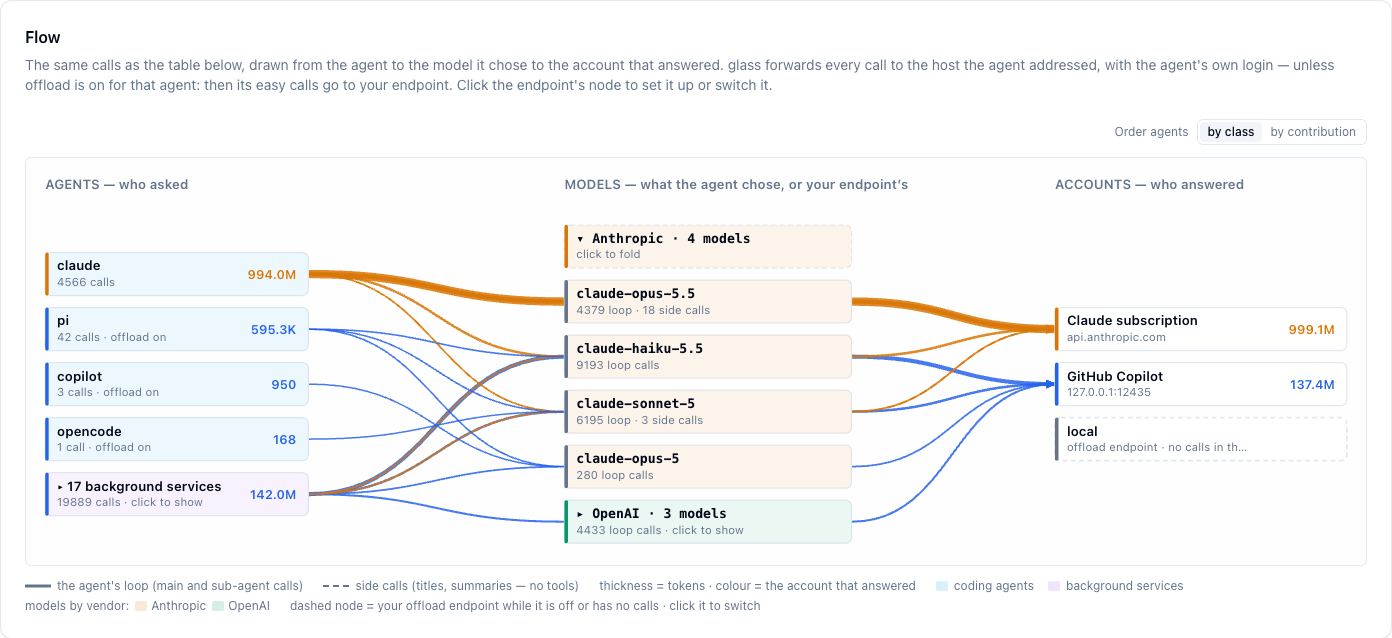
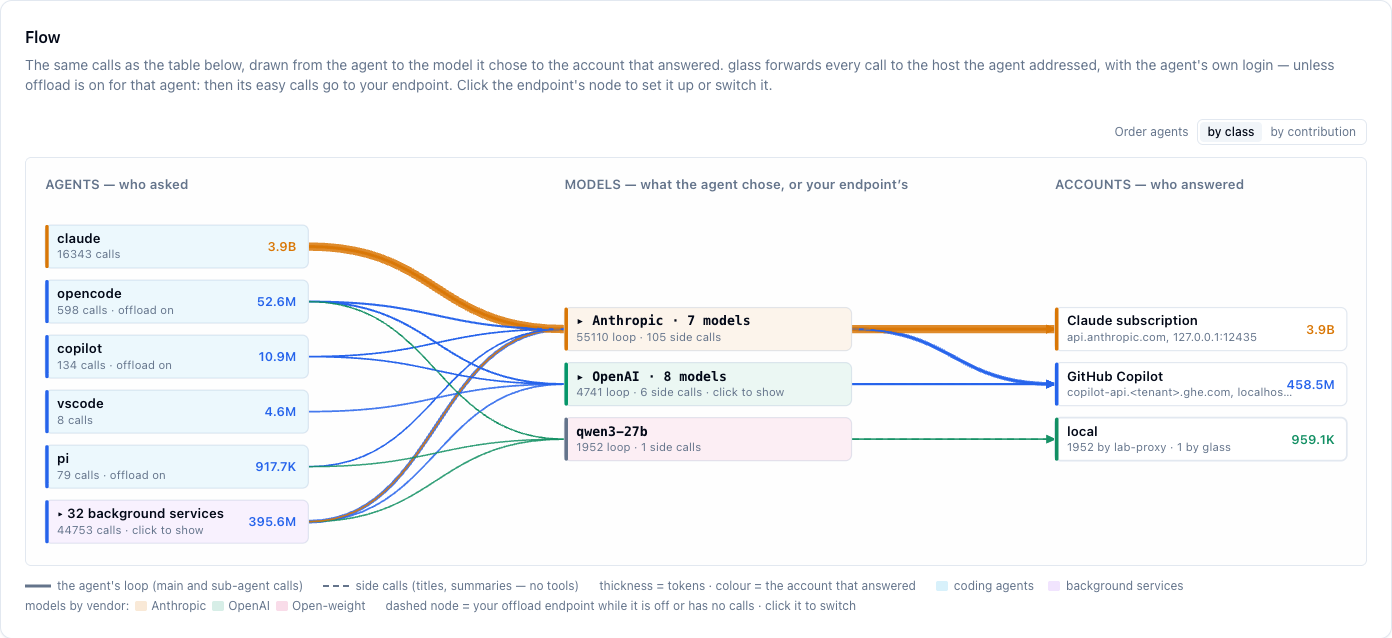
extracted from coding@74b4f5a, rapid-llm-proxy@3ce60a6
Generated by coding/scripts/glass/extract.mjs from glass/manifest.yaml — do not edit by hand.

diff --git a/docs/models.md b/docs/models.md
@@ -27,12 +27,21 @@ agent's own loop rather than side requests.
     chose, to the account that answered. Edge thickness is tokens; dashed edges are side
     calls. Hover a node to isolate its paths.
 
-    ![Models flow over 7 days: claude, pi, copilot, opencode and coding's background services, to models grouped by vendor (Anthropic opened, OpenAI folded), to the Claude subscription and GitHub Copilot; the offload endpoint dashed, with no calls in the window](images/ui-models-flow.png)
+    ![Models flow over 30 days: claude, opencode, copilot, vscode, pi and coding's background services, to models grouped by vendor (Anthropic and OpenAI folded, one open-weight model), to the Claude subscription, GitHub Copilot and the offload endpoint local in green, whose node counts 1952 calls by another router on the same machine and 1 by glass](images/ui-models-flow.png)
 
     By default there is no decision in the middle: every edge is a choice the agent made,
     and glass forwarded the call to the host the agent addressed. With
     [offload](offload.md) on, your endpoint is an account too — its calls in green — and a
     click on its node opens the switch.
+
+    Ordered **by contribution**, with a vendor group opened to its models:
+
+    ![Models flow over 30 days ordered by contribution: the Anthropic group opened to its seven models, OpenAI folded, one open-weight model answered by the offload endpoint local in green](images/ui-models-flow-anthropic.png)
+
+    Click the endpoint's node and its paths stay lit while the rest fades; its card says
+    what offload does now and holds the switch:
+
+    ![Models flow with the offload endpoint selected: its green paths from opencode, pi and coding's background services stay lit, and its card reads offload on, local reachable, with Turn offload off and Settings](images/ui-models-flow-endpoint-card.png)
 
     For **one session**, open **Sessions** and select its row: the same columns appear in a
     Models card above the session's timeline, with its calls one by one.

diff --git a/docs/overview.md b/docs/overview.md
@@ -289,17 +289,17 @@ Every call from **the agent, to the model it chose, to the account that answered
 the last day, week, month or all time. Thicker edges carried more tokens.
 
 Solid edges are the agent's own loop. **Dashed** edges are side calls it makes on its
-own, such as a session title or a summary, often on a smaller model. The table below the
-flow has the numbers.
+own, such as a session title or a summary, often on a smaller model. Calls your offload
+endpoint answered are **green**. The table below the flow has the numbers.
 
 For one session, select its row in **Sessions**: the same view, call by call.
 
 </div>
 <figure class="overview-figure" markdown="1">
 
-[![Models flow over 7 days: claude, pi, copilot, opencode and coding's background services, to models grouped by vendor (Anthropic opened, OpenAI folded), to the Claude subscription and GitHub Copilot; the offload endpoint dashed, with no calls in the window.](images/ui-models-flow.png)](images/ui-models-flow.png){: target="_blank" rel="noopener" title="Open full-size screenshot" }
+[![Models flow over 30 days: claude, opencode, copilot, vscode, pi and coding's background services, to models grouped by vendor (Anthropic and OpenAI folded, one open-weight model), to the Claude subscription, GitHub Copilot and the offload endpoint local in green, whose node counts 1952 calls by another router on the same machine and 1 by glass.](images/ui-models-flow.png)](images/ui-models-flow.png){: target="_blank" rel="noopener" title="Open full-size screenshot" }
 
-<figcaption>A week on one machine. No decision in the middle: every model here is one the agent chose; glass measures, it does not route.</figcaption>
+<figcaption>A month on one machine. No decision in the middle: every model here is one the agent chose, or your offload endpoint's (green). One machine is one account node, whoever sent it the calls.</figcaption>
 </figure>
 <p class="overview-takeaway" markdown="1">
 Know which model you are paying for before you switch one.

diff --git a/docs/_tiers/models.deep.md b/docs/_tiers/models.deep.md
@@ -33,7 +33,7 @@ The **Flow** card on the Models tab draws the same rows as the table, in three c
 
 | Column | Node | Number on the node |
 |---|---|---|
-| **Agents** — who asked | one per agent; **no session** = calls glass measured but could not tie to a session (see below); with coding installed, each of coding's background jobs under its process name (see below) | tokens, calls |
+| **Agents** — who asked | one per agent; **no session** (grey, listed last) = calls glass measured but could not tie to a session — not an agent (see below); with coding installed, each of coding's background jobs under its process name (see below) | tokens, calls |
 | **Models** — what the agent chose | one per model, split into loop and side calls | — |
 | **Accounts** — who answered | one per account, with the hosts its calls went to | tokens |
 
@@ -44,6 +44,11 @@ The **Flow** card on the Models tab draws the same rows as the table, in three c
   the per-agent split is in the table.
 - Accounts are merged by who answered, not by spelling: `github-copilot` and `gh-copilot`
   rows are one Copilot node.
+- One machine is one account node. Your [offload](offload.md) endpoint's node also takes
+  the calls another router — coding's LLM proxy, say — sent to the same host under its own
+  name, and every call under that name, even from before the host's address changed. Its
+  subtitle then counts calls by sender (`1952 by lab-proxy · 1 by glass`); the switch moves
+  glass's own calls only.
 
 coding's dashboard has a flow with the same left and right columns and a decision column in
 the middle — the router choosing an account per call. glass has no router, so the middle
